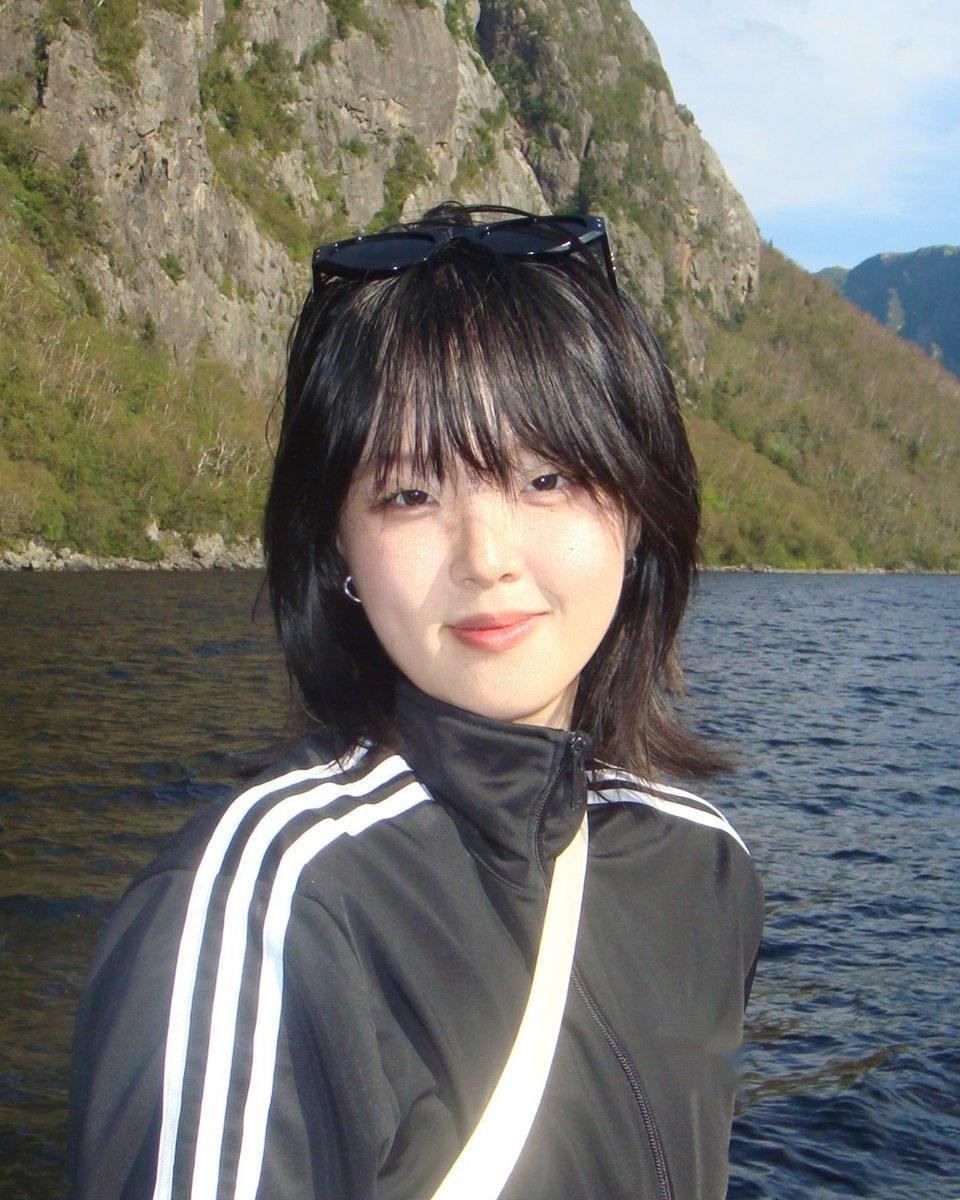
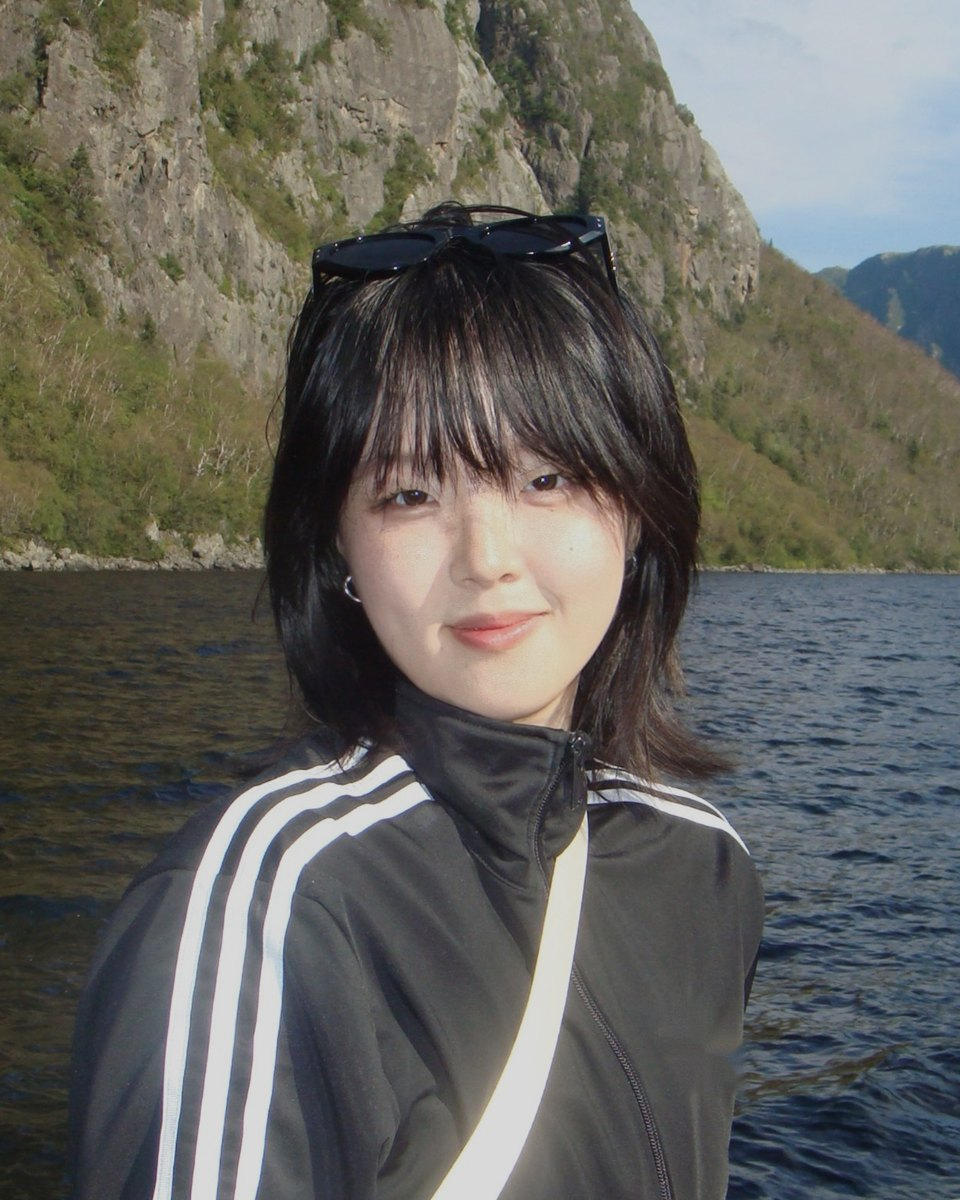
About photo: softer exposure
Claude-Session: https://claude.ai/code/session_01AUKFiyHWpQkFUYuPpce31C

diff --git a/index.html b/index.html
@@ -18,7 +18,7 @@
   <link rel="preconnect" href="https://fonts.googleapis.com">
   <link rel="preconnect" href="https://fonts.gstatic.com" crossorigin>
   <link href="https://fonts.googleapis.com/css2?family=Newsreader:ital,opsz,wght@0,6..72,300..600;1,6..72,300..600&family=DM+Sans:wght@400;500;600&display=swap" rel="stylesheet">
-  <link rel="stylesheet" href="styles.css?v=20261013g">
+  <link rel="stylesheet" href="styles.css?v=20261013h">
 </head>
 <body>
   <a class="skip" href="#main">Skip to content</a>
@@ -180,7 +180,7 @@
 
     <!-- ABOUT -->
     <section class="wrap about" id="about" aria-labelledby="about-title">
-      <figure class="about-photo"><img src="assets/kitty.jpg" alt="Kitty Gao smiling on a boat, with cliffs and water behind her" width="960" height="1200" loading="lazy"></figure>
+      <figure class="about-photo"><img src="assets/kitty.jpg?v=2" alt="Kitty Gao smiling on a boat, with cliffs and water behind her" width="960" height="1200" loading="lazy"></figure>
       <div class="about-body">
         <h2 id="about-title">Hello, <span class="ink-line">Kitty</span>.</h2>
         <p>I’m doing a dual degree: an Honours Specialization in Psychology at Western and an Honours Business Administration (HBA) at Ivey. Marketing and organizational behaviour sit right where the two meet: understanding people well enough to make something they remember, or to help them do their best work.</p>
@@ -271,6 +271,6 @@
     <img class="scroll-cat-icon" id="scroll-cat" src="assets/icon.svg" alt="" width="34" height="34">
   </div>
 
-  <script src="script.js?v=20261013g"></script>
+  <script src="script.js?v=20261013h"></script>
 </body>
 </html>
